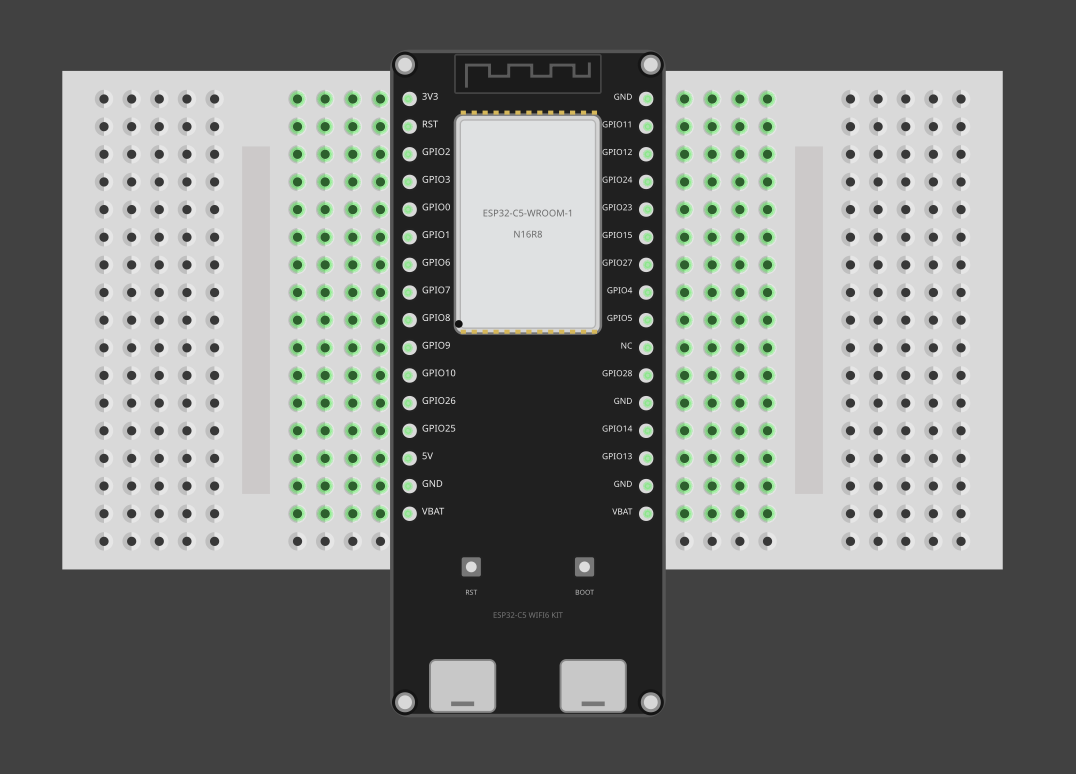
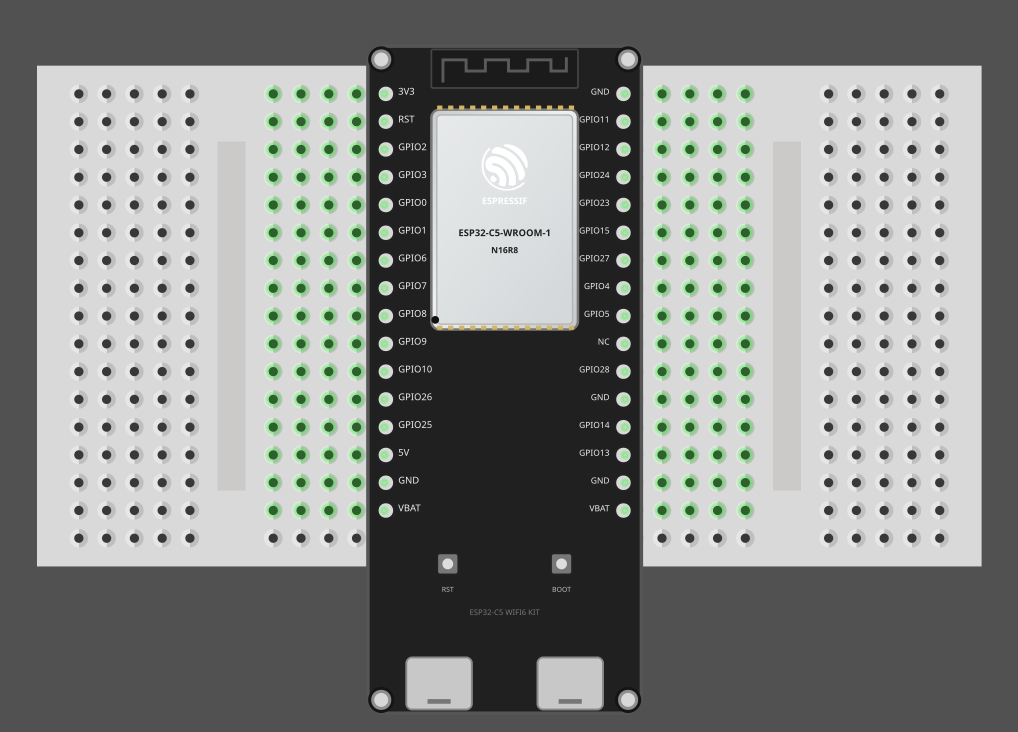
Tutorial to create Burglar Alarm with Rust

diff --git a/theme/css/custom.css b/theme/css/custom.css
@@ -442,8 +442,26 @@ sup {
     margin: auto;
 }
 
+.content-image-30 {
+    width: 30%;
+}
+
+.content-image-60 {
+    width: 60%;
+}
+
+.content-image-70 {
+    width: 70%;
+}
+
 @media (max-width: 768px) {
     .content-image {
         width: 100%;
+    }
+
+    .content-image-30,
+    .content-image-60,
+    .content-image-70 {
+        width: 80%;
     }
 }

diff --git a/src/burglar-alarm/pir-sensor-module.md b/src/burglar-alarm/pir-sensor-module.md
@@ -1,0 +1,78 @@
+# HC-SR501 PIR Sensor Module
+
+Everything around us emits infrared radiation based on its temperature, but warm objects such as people emit more infrared radiation than their surroundings. When a person moves across the sensor's field of view, the amount of infrared radiation reaching the sensor changes. The HC-SR501 detects this change and uses it to determine that motion has occurred.
+
+## Sensitivity Adjustment
+
+The sensitivity control adjusts the detection range of the PIR sensor. Turning the control changes how far away the sensor can detect motion, with the range typically reaching around 3 to 7 meters.
+
+<figure >
+  <img 
+    class="content-image" 
+    src="./images/pir-motion-sensor-HC-SR501-sensitivity-delay-adjustment.jpg" 
+    alt="HC-SR501 PIR sensor module Sensitivity and Delay Adjustment"
+  >
+</figure>
+
+When you keep the PIR sensor with the dome pointing upward, the potentiometer on the right adjusts the sensitivity. Use a small screwdriver or a similar tool to turn the potentiometer.
+
+## Time Delay Adjustment
+
+The delay control determines how long the sensor's output remains active after motion is detected. The delay can typically be adjusted from around 3 seconds to 300 seconds (5 minutes). 
+
+> [!NOTE]
+>
+> The sensor also has a short blocking period of a few seconds after the output goes LOW. During this period, it will not detect new motion.
+
+## Pinout
+
+The HC-SR501 has three pins: `VCC`, `OUT`, and `GND`. The sensor is powered through the `VCC` and `GND` pins. The middle pin is the digital output of the sensor. It produces a HIGH signal when motion is detected and a LOW signal when no motion is detected.
+
+<figure >
+  <img 
+    class="content-image" 
+    src="./images/pir-sensor-pinout.jpg" 
+    alt="HC-SR501 PIR sensor Pinout"
+  >
+</figure>
+
+
+## Trigger Selection Jumper
+
+The trigger selection jumper controls how the sensor responds when additional motion is detected during the configured delay period.
+
+<figure >
+  <img 
+    class="content-image" 
+    src="./images/pir-sensor-trigger-selection-jumper.jpg" 
+    alt="Trigger Selection Jumper"
+  >
+</figure>
+
+First, let's look at the `L` mode, which is simpler.
+
+In `L` mode, the sensor uses a single trigger. Once motion is detected, the output goes HIGH and the module starts waiting for the configured delay period. If motion is detected again during this period, it does not restart the timer. The output goes LOW when the delay period expires.
+
+<figure >
+  <img 
+    class="content-image" 
+    src="./images/PIR-Sensor-L-Mode-Trigger-Selection-Jumper.jpg" 
+    alt="PIR Sensor in L Mode"
+  >
+</figure>
+
+For example, suppose the Time Delay is set to 10 seconds. When the module detects motion, the output goes HIGH and the module starts a 10-second delay. If the person moves again during those 10 seconds, the timer continues running from the original detection. After 10 seconds, the output goes LOW.
+
+In `H` mode, the sensor uses a repeatable trigger. If motion is detected again while it is waiting, the module restarts the waiting period.
+
+<figure >
+  <img 
+    class="content-image" 
+    src="./images/PIR-Sensor-H-Mode-Trigger-Selection-Jumper.jpg" 
+    alt="PIR Sensor in H Mode"
+  >
+</figure>
+
+Let's say you have configured the Time Delay for 10 seconds. The module detects someone moving and starts waiting for 10 seconds. If the person moves again within that period, the module resets the waiting time and waits another 10 seconds from that detection. If no more motion is detected, the module waits for the full 10 seconds after the last detection before the output goes LOW.
+
+For our project, we will use `H` mode to keep the output active when repeated motion is detected during the delay period.

diff --git a/src/burglar-alarm/code.md b/src/burglar-alarm/code.md
@@ -1,0 +1,98 @@
+{{#title Embedded Rust code for Building Burglar Alarm with ESP32-C5}}
+
+# Code
+
+Let's generate the project with `esp-generate` in headless mode.
+
+```sh
+esp-generate --headless -o esp32c5 -o defmt -o esp32c5-wroom-1-psram burglar-alarm
+```
+
+## Dependencies
+
+We are going to change the color of the onboard LED to RED when motion is detected. To control the onboard LED, we need to add the following dependencies to `Cargo.toml`:
+
+```toml
+esp-hal-smartled = "0.18.0"
+smart-leds = "0.4.0"
+```
+
+## Initializing the Onboard LED
+
+We already saw this code snippet to initialize the onboard LED using the RMT peripheral in the previous section. We will use the same snippet here.
+
+```rust
+let freq = Rate::from_mhz(80);
+let rmt = Rmt::new(peripherals.RMT, freq).unwrap();
+let mut led =
+    RmtSmartLeds::<{ buffer_size::<RGB8>(1) }, _, RGB8, color_order::Rgb>::new_with_memsize(
+        esp_hal_smartled::WS2812_TIMING,
+        rmt.channel0,
+        peripherals.GPIO27,
+        2,
+        freq,
+    )
+    .unwrap();
+```
+
+## Initializing the PIR Sensor and Buzzer
+
+Next, we will configure GPIO 10 to receive the signal from the PIR sensor. The PIR sensor sends its output signal through the `OUT` pin. When motion is detected, the sensor drives this pin HIGH. From the ESP32-C5's perspective, GPIO 10 is an input because it receives that signal. So, we will initialize this pin with the `Input` struct.
+
+We will configure this pin with an internal pull-down resistor. This keeps the pin LOW when the PIR sensor is not driving it.
+
+```rust
+let sensor_pin = Input::new(
+    peripherals.GPIO10,
+    InputConfig::default().with_pull(Pull::Down),
+);
+```
+
+Since the buzzer is controlled by the ESP32-C5, we will configure GPIO 24 as an output using the `Output` struct. We initialize it with `Level::Low` so that the buzzer remains off initially.
+
+```rust
+let mut buzzer_pin = Output::new(peripherals.GPIO24, Level::Low, OutputConfig::default());
+```
+
+## The Main Loop
+
+The main loop is very simple. We will continuously check if we get a HIGH signal on the sensor pin. If so, we will turn on the buzzer and change the onboard LED to RED. If no motion is detected, we turn off both the buzzer and the LED.
+
+```rust
+loop {
+    if sensor_pin.is_high() {
+        info!("Motion detected");
+        buzzer_pin.set_high();
+        led.write([RGB8::new(255, 0, 0)]).unwrap();
+    } else {
+        buzzer_pin.set_low();
+        led.write([RGB8::new(0, 0, 0)]).unwrap();
+    }
+
+    blocking_delay(Duration::from_millis(100));
+}
+```
+
+The "Motion detected" message will be printed continuously while motion is detected. We could add a state flag to print the message only once until the motion stops, but I wanted to keep the code simple and easy to understand. You can extend this code to make it better.
+
+
+## Clone the existing project
+
+You can clone the project I created or refer to the existing project and navigate to the `burglar-alarm` folder.
+
+```sh
+git clone https://github.com/ImplFerris/esp32c5-projects
+cd esp32c5-projects/burglar-alarm/
+```
+
+## Running the Project
+
+Connect the ESP32-C5 to your computer and run the project:
+
+```sh
+cargo run --release
+```
+
+Once the project is running, move in front of the PIR sensor. When motion is detected, the buzzer will turn on and the onboard LED will change to red.
+
+You might want to adjust the time delay and sensitivity according to your preference.

diff --git a/src/burglar-alarm/circuit.md b/src/burglar-alarm/circuit.md
@@ -1,0 +1,86 @@
+# Circuit
+
+<img style="display: block; margin: auto;" alt="Burglar Alarm with ESP32-C5 and PIR Sensor" src="./images/burglar-alarm-with-esp32-c5-and-pir-sensor.jpg"/>
+
+## Connecting PIR Sensor with ESP32
+
+We will connect the HC-SR501 PIR sensor to the ESP32-C5 as shown below. The sensor is powered from the 5V pin, while its OUT signal is connected to GPIO 10. Whenever motion is detected, the sensor outputs a HIGH signal on GPIO 10.
+
+<table style="margin-bottom:20px">
+  <thead>
+    <tr>
+      <th>ESP32-C5 Pin</th>
+      <th style="width: 250px; margin: 0 auto;">Wire</th>
+      <th>PIR Sensor Pin</th>
+    </tr>
+  </thead>
+  <tbody>
+    <tr>
+      <td>GPIO 10</td>
+      <td style="text-align: center; vertical-align: middle; padding: 0;">
+        <div class="wire yellow" style="width: 200px; margin: 0 auto;">
+          <div class="male-left"></div>
+          <div class="male-right"></div>
+        </div>
+      </td>
+      <td>OUT (middle pin)</td>
+    </tr>
+    <tr>
+      <td>5V</td>
+      <td style="text-align: center; vertical-align: middle; padding: 0;">
+        <div class="wire red" style="width: 200px; margin: 0 auto;">
+          <div class="male-left"></div>
+          <div class="male-right"></div>
+        </div>
+      </td>
+      <td>VCC</td>
+    </tr>
+    <tr>
+      <td>GND</td>
+      <td style="text-align: center; vertical-align: middle; padding: 0;">
+        <div class="wire black" style="width: 200px; margin: 0 auto;">
+          <div class="male-left"></div>
+          <div class="male-right"></div>
+        </div>
+      </td>
+      <td>GND</td>
+    </tr>
+  </tbody>
+</table>
+<br/>
+
+### Buzzer Pin Connection: 
+
+We will connect the positive pin of the buzzer to GPIO 24, while the negative pin connects to GND. This allows us to control the buzzer and produce a sound when motion is detected.
+
+<table style="margin-bottom:20px">
+  <thead>
+    <tr>
+      <th>ESP32-C5 Pin</th>
+      <th style="width: 250px; margin: 0 auto;">Wire</th>
+      <th>Buzzer Pin</th>
+    </tr>
+  </thead>
+  <tbody>
+    <tr>
+      <td>GPIO 24</td>
+      <td style="text-align: center; vertical-align: middle; padding: 0;">
+        <div class="wire orange" style="width: 200px; margin: 0 auto;">
+          <div class="male-left"></div>
+          <div class="male-right"></div>
+        </div>
+      </td>
+      <td>Positive Pin</td>
+    </tr>
+    <tr>
+      <td>GND</td>
+      <td style="text-align: center; vertical-align: middle; padding: 0;">
+        <div class="wire black" style="width: 200px; margin: 0 auto;">
+          <div class="male-left"></div>
+          <div class="male-right"></div>
+        </div>
+      </td>
+      <td>Negative Pin</td>
+    </tr>
+  </tbody>
+</table>

diff --git a/src/burglar-alarm/index.md b/src/burglar-alarm/index.md
@@ -1,0 +1,40 @@
+{{#title Create a Burglar Alarm with ESP32-C5 and Rust}}
+
+# Create a Burglar Alarm with ESP32-C5 and Rust
+
+Let's get straight into a practical project. We will create a simple burglar alarm using our first sensor, a PIR (Passive Infrared) sensor.
+
+Imagine you want to know when someone enters a room while you are away. The PIR sensor can detect movement in the room, and the ESP32-C5 can respond. For this demo, we will turn on the RGB LED and sound a buzzer. In a real scenario, you might want to send an alert to your phone instead. Of course, a PIR sensor would not be enough on its own for a complete security system. You would typically use other sensors and cameras as well. But this project will give us a basic idea.
+
+## Requirements
+
+For this project, you will need:
+
+- ESP32-C5 development board
+- PIR motion sensor
+- Jumper wires
+- Active buzzer (optional)
+
+### HC-SR501 PIR sensor module
+
+The HC-SR501 is a PIR motion sensor module commonly used for motion detection in projects such as burglar alarms, automatic lighting, and home automation. It has a pyroelectric sensor and a dome-shaped Fresnel lens that help it detect changes in infrared radiation within its sensing area.
+
+<figure >
+  <img 
+    class="content-image" 
+    src="./images/pir-motion-sensor-HC-SR501.jpg" 
+    alt="HC-SR501 PIR sensor module"
+  >
+</figure>
+
+### Active Buzzer
+
+If you don't have an active buzzer, you can leave it out of the circuit and skip the relevant parts of the code. If you decide to use a buzzer, make sure you get an active buzzer, not a passive buzzer. An active buzzer can produce a sound when you simply turn it on, which keeps things simple for this example.
+
+<figure >
+  <img 
+    class="content-image content-image-30" 
+    src="./images/active-buzzer.png" 
+    alt="Active Buzzer"
+  >
+</figure>

diff --git a/src/onboard-rgb-led/index.md b/src/onboard-rgb-led/index.md
@@ -55,7 +55,7 @@ Next, we will configure the RMT channel to drive the WS2812B LED connected to GP
 
 ```rust
 let mut led =
-    RmtSmartLeds::<{ buffer_size::<RGB8>(1) }, _, RGB8, color_order::Grb>::new_with_memsize(
+    RmtSmartLeds::<{ buffer_size::<RGB8>(1) }, _, RGB8, color_order::Rgb>::new_with_memsize(
         esp_hal_smartled::WS2812_TIMING,
         rmt.channel0,
         peripherals.GPIO27,
@@ -65,7 +65,7 @@ let mut led =
     .unwrap();
 ```
 
-The `WS2812_TIMING` provides the timing required by the WS2812B, while `color_order::Grb` specifies the order in which the LED expects the color values.
+The `WS2812_TIMING` provides the timing required by the WS2812B, while `color_order::Rgb` specifies the order in which the color values are sent to the LED.
 
 ## Main loop
 

diff --git a/src/introduction/embedded-basis.md b/src/introduction/embedded-basis.md
@@ -19,3 +19,7 @@ Peripherals are hardware components inside the microcontroller that provide spec
 ### GPIO
 
 GPIO stands for General Purpose Input/Output. GPIO pins can be configured as inputs or outputs to interact with external hardware. For example, a GPIO can be used to control an LED or detect a button press.
+
+## Sensors and Actuators
+
+A microcontroller alone isn't enough to build an IoT device. It needs sensors to collect information from the physical world and actuators to interact with it. For example, a sensor can detect things such as motion, temperature, light, or pressure, while an actuator can perform actions such as turning on an LED, moving a motor, or sounding a buzzer.

diff --git a/src/index.md b/src/index.md
@@ -43,6 +43,7 @@ Here are the main datasheets:
 
 - [ESP32-C5 Datasheet](https://documentation.espressif.com/esp32-c5_datasheet_en.pdf)
 - [ESP32-C5-WROOM-1 & ESP32-C5-WROOM-1U Datasheet](https://documentation.espressif.com/esp32-c5-wroom-1_wroom-1u_datasheet_en.pdf)
+- Circuit diagrams in this book were created with Fritzing.
 
 In case a datasheet link is broken, you want to check the latest version, or you want to find other related documents, you can check the [Related Documents](https://docs.espressif.com/projects/esp-dev-kits/en/latest/esp32c5/esp32-c5-devkitc-1/user_guide.html#related-documents) section in the ESP32-C5-DevKitC-1 User Guide.
 

diff --git a/src/SUMMARY.md b/src/SUMMARY.md
@@ -11,4 +11,8 @@
     - [Embedded Rust](./introduction/embedded-rust.md)
     - [Understanding the Project](./introduction/understanding-project.md)
 - [Onboard RGB LED](./onboard-rgb-led/index.md)
+- [Burglar Alarm](./burglar-alarm/index.md)
+    - [PIR Sensor](./burglar-alarm/pir-sensor-module.md)
+    - [Circuit](./burglar-alarm/circuit.md)
+    - [Code](./burglar-alarm/code.md)
 - [Wi-Fi](./wifi/index.md)

diff --git a/src/quick-start.md b/src/quick-start.md
@@ -57,13 +57,15 @@ fn main() -> ! {
 
 All that's left is to flash the code onto the ESP32-C5 and see the output.
 
-Run the following command from your project folder:
+Connect the ESP32-C5 to your computer using a USB-C cable.
+
+Then, run the following command from your project folder:
 
 ```rust
 cargo run
 ```
 
-To run in release mode
+To run in release mode:
 
 ```rust
 cargo run --release
